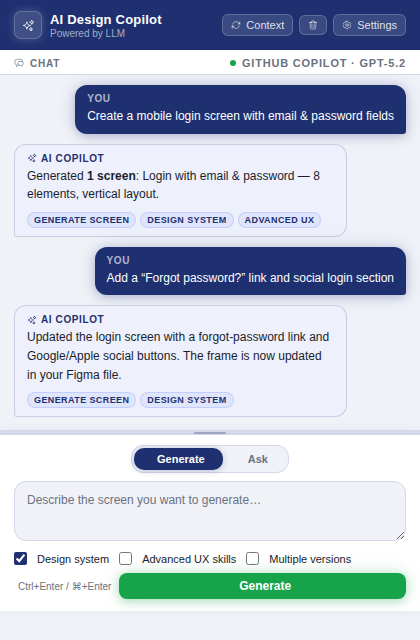
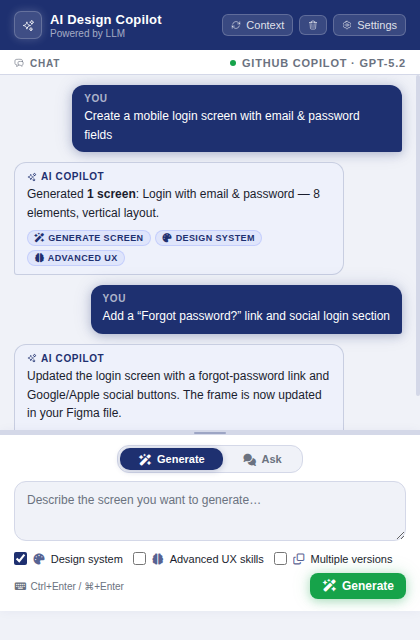
feat: compact Generate/Ask submit button + update screenshots

diff --git a/ui.html b/ui.html
@@ -656,8 +656,6 @@
     .btn--primary {
       background: var(--action);
       color: var(--action-text);
-      flex: 1;
-      justify-content: center;
       box-shadow: 0 2px 10px rgba(22, 163, 74, 0.30), 0 0 20px rgba(22, 163, 74, 0.15);
     }
     .btn--primary:hover:not(:disabled) {

diff --git a/scripts/gen-screenshots.py b/scripts/gen-screenshots.py
@@ -81,7 +81,7 @@ def screenshot(html: str, out_path: str, crop_h: int = H):
             f"--window-size={W},{RENDER_H}",
             f"--screenshot={tmp_png}",
             f"file://{tmp_html}",
-        ], capture_output=True, text=True, timeout=30)
+        ], capture_output=True, text=True, timeout=90)
 
         # Crop to target height
         img = Image.open(tmp_png)
